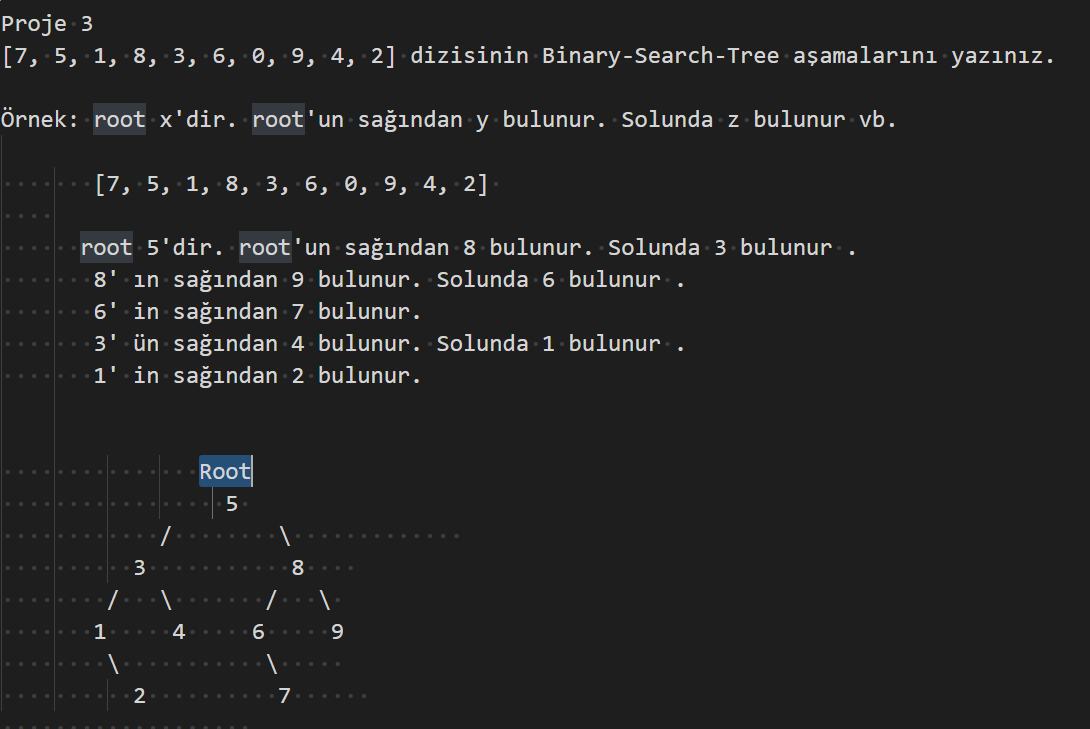
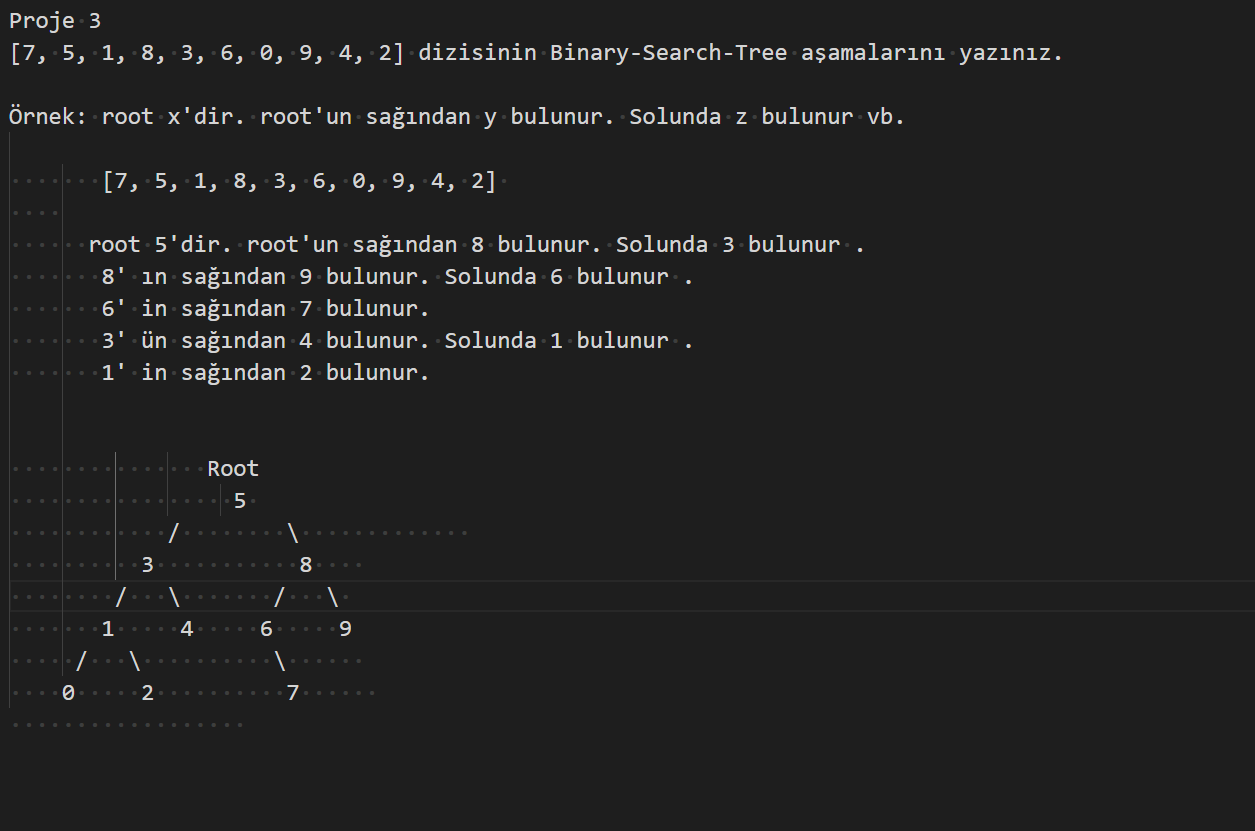
tamam

diff --git a/gorev.html b/gorev.html
@@ -18,8 +18,8 @@ Proje 3
           3           8    
         /   \       /   \ 
        1     4     6     9
-        \           \     
-          2          7      
+     /   \          \      
+    0     2          7      
                   
 
 
